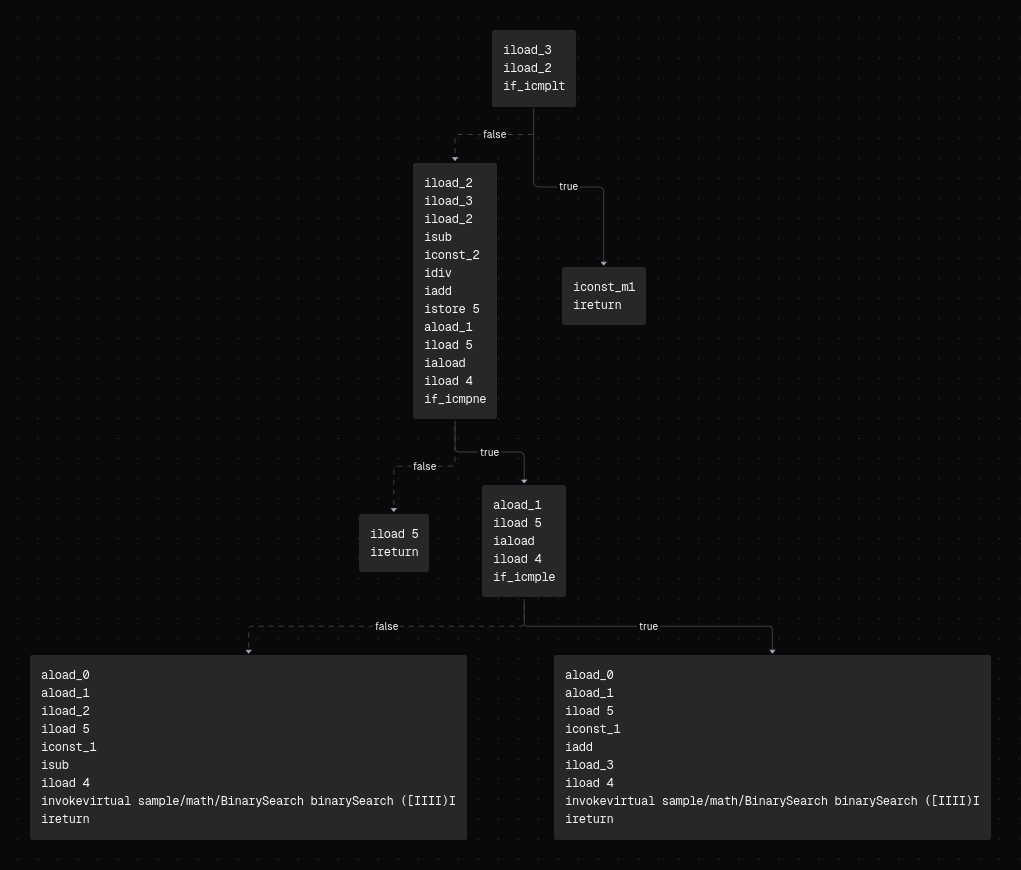
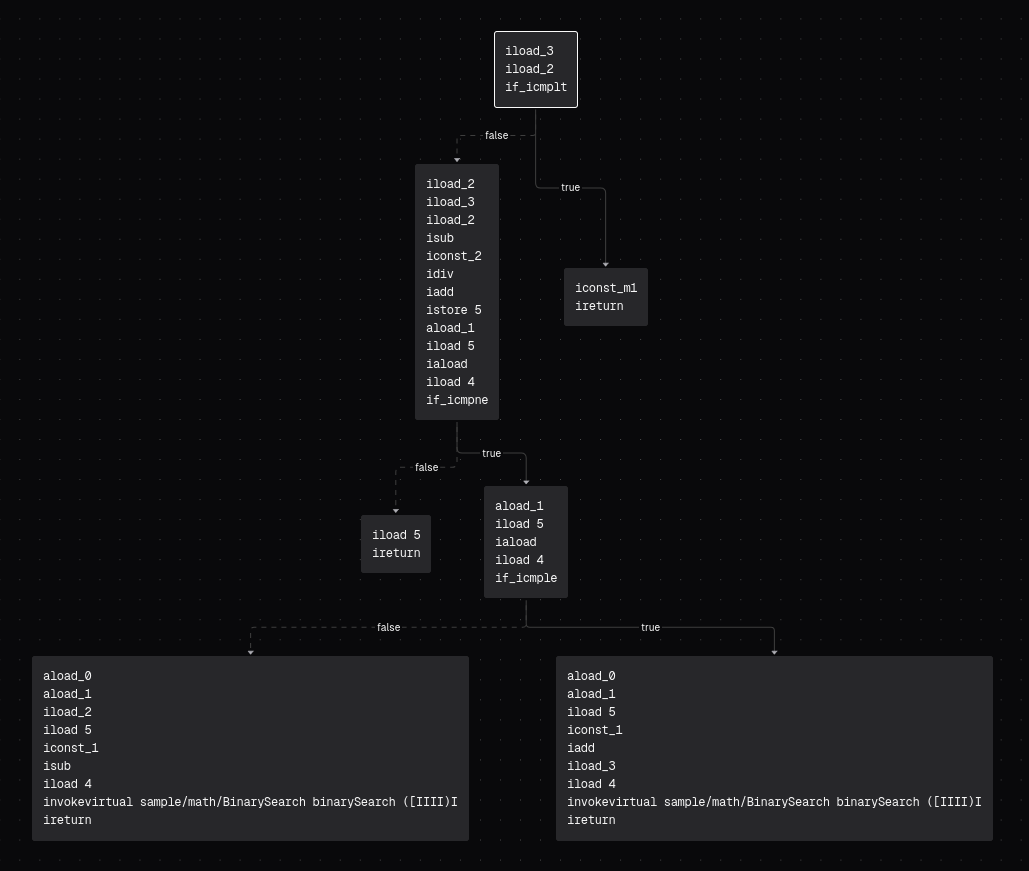
feat(flow): entrypoint node

diff --git a/src/content/docs/reference/flow.md b/src/content/docs/reference/flow.md
@@ -11,7 +11,11 @@ This view can be opened in the context menu of a project entry (`Open as` -> `Fl
 
 A flow graph is composed of two parts: nodes and edges.
 
-A node is a block of instructions, which are executed sequentially and an edge is a line that connects the execution of two blocks in a specific direction. An edge can represent:
+A node is a block of instructions, which are executed sequentially. The node containing the zero-offset (first) instruction is called the entrypoint node and is highlighted with a special border (white/black).
+
+Every node that does not naturally (without a jump) pass off execution to another node must end with a branch (if, goto, switch or subroutine jump) or terminal instruction (return, throw or subroutine return), otherwise it does not pass [class file verification](https://docs.oracle.com/javase/specs/jvms/se21/html/jvms-4.html#jvms-4.10.2.2) (execution fell off at end of code).
+
+An edge is a line that connects the execution of two blocks in a specific direction. An edge can represent:
 
  - a conditional/unconditional jump (a full line)
  - a natural flow of execution between two consecutive nodes (a dashed line)
@@ -25,7 +29,5 @@ A node typically has 1 (unconditional jump), 2 (conditional jump) or more (switc
 Currently, exception handlers are not visualized, so you may see seemingly dead code, but it may also be a part of an exception handler.
 
 :::
-
-Every node must end with a branch (if, goto, switch or subroutine jump) or terminal instruction (return, throw or subroutine return), otherwise it does not pass [class file verification](https://docs.oracle.com/javase/specs/jvms/se21/html/jvms-4.html#jvms-4.10.2.2) (execution fell off at end of code).
 
 ![](/assets/flow_graph.png)
